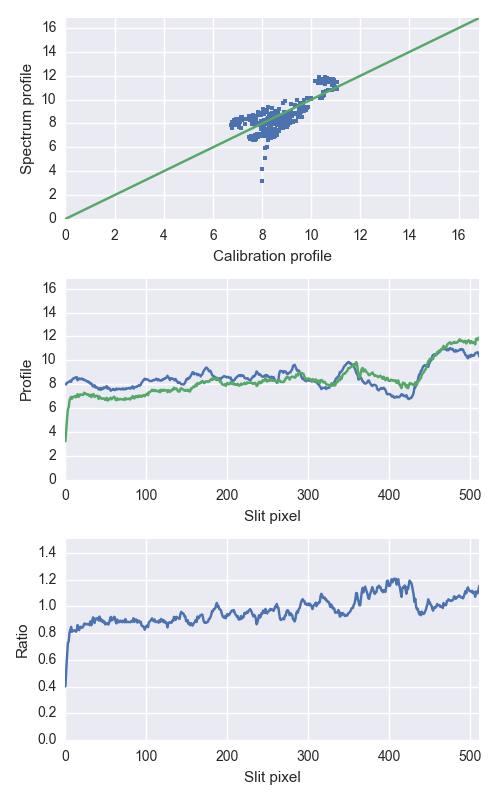
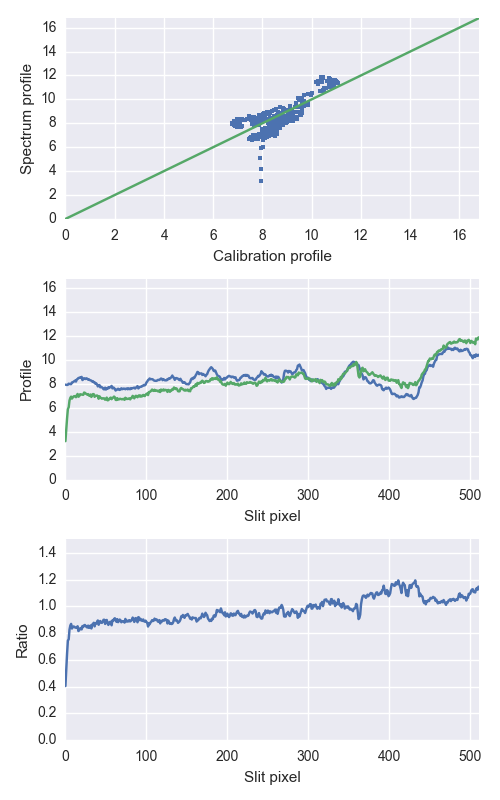
Refinements to first two batched of slits
Now includes adjustable zero point

diff --git a/slit-calibration.py b/slit-calibration.py
@@ -205,6 +205,7 @@ for row in tab:
     ha_profile = hahdu.data.sum(axis=wavaxis)
     nii_profile = niihdu.data.sum(axis=wavaxis)
     spec_profile = (ha_profile+1.333*nii_profile)/row['norm']
+    spec_profile -= row['zero']
     plt_prefix = 'plots/{:03d}-{}-calib'.format(row.index, full_id)
     make_three_plots(spec_profile, calib_profile, plt_prefix)
 # Loop\ over\ the\ slit\ positions\ and\ do\ the\ stuff:1 ends here
